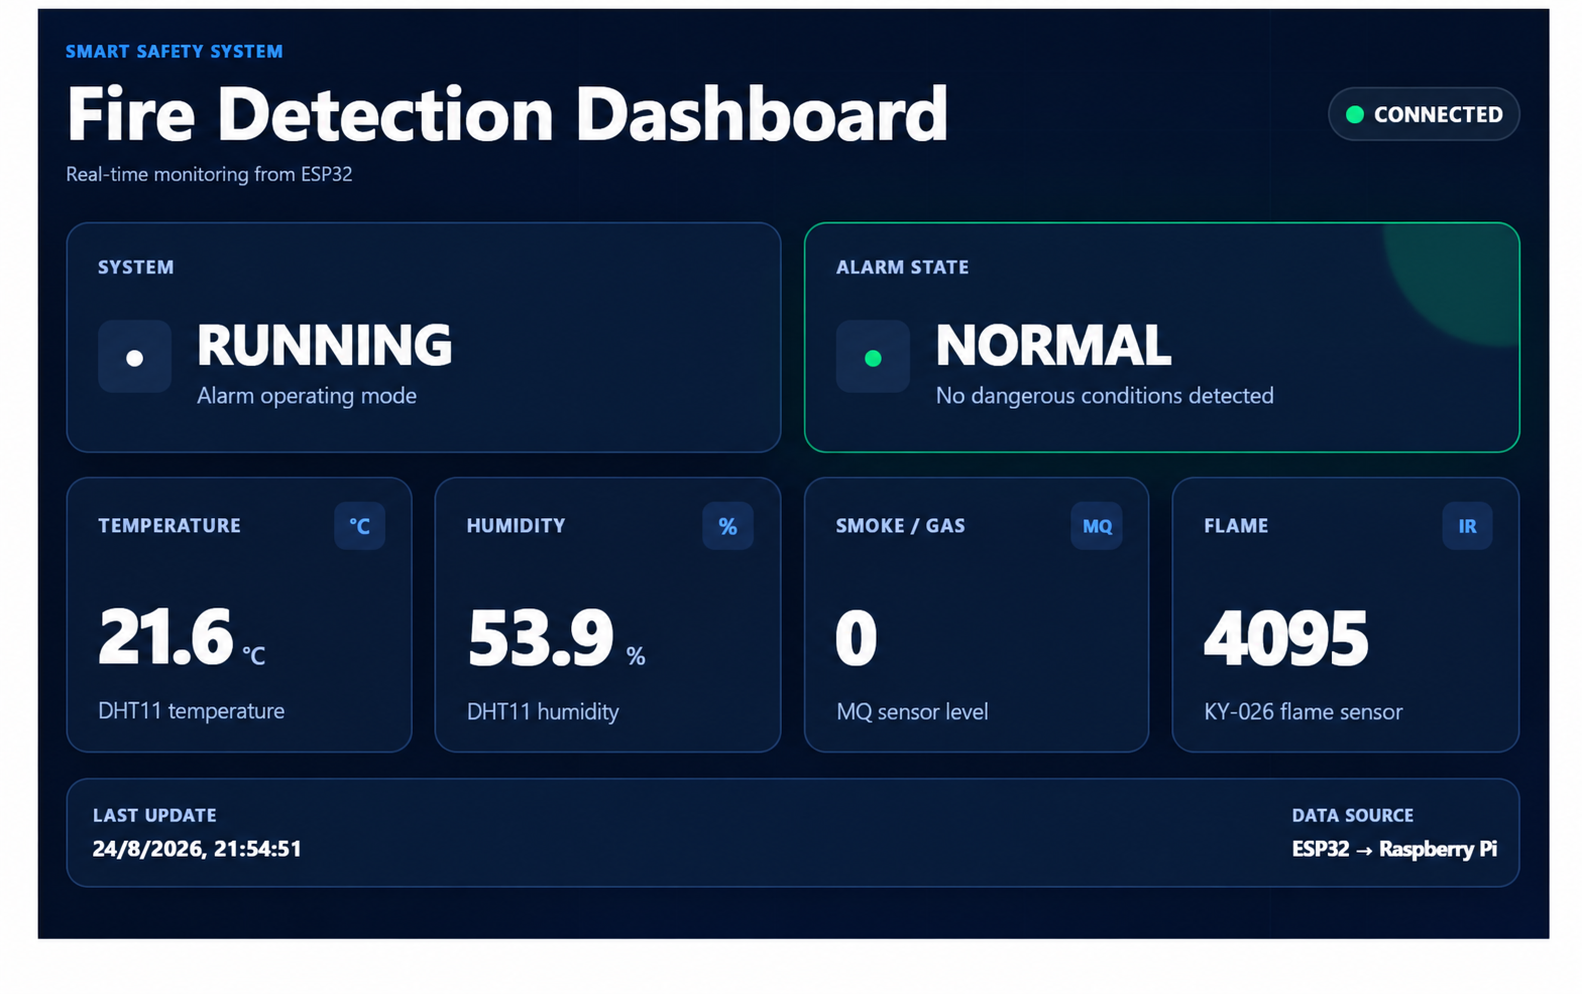
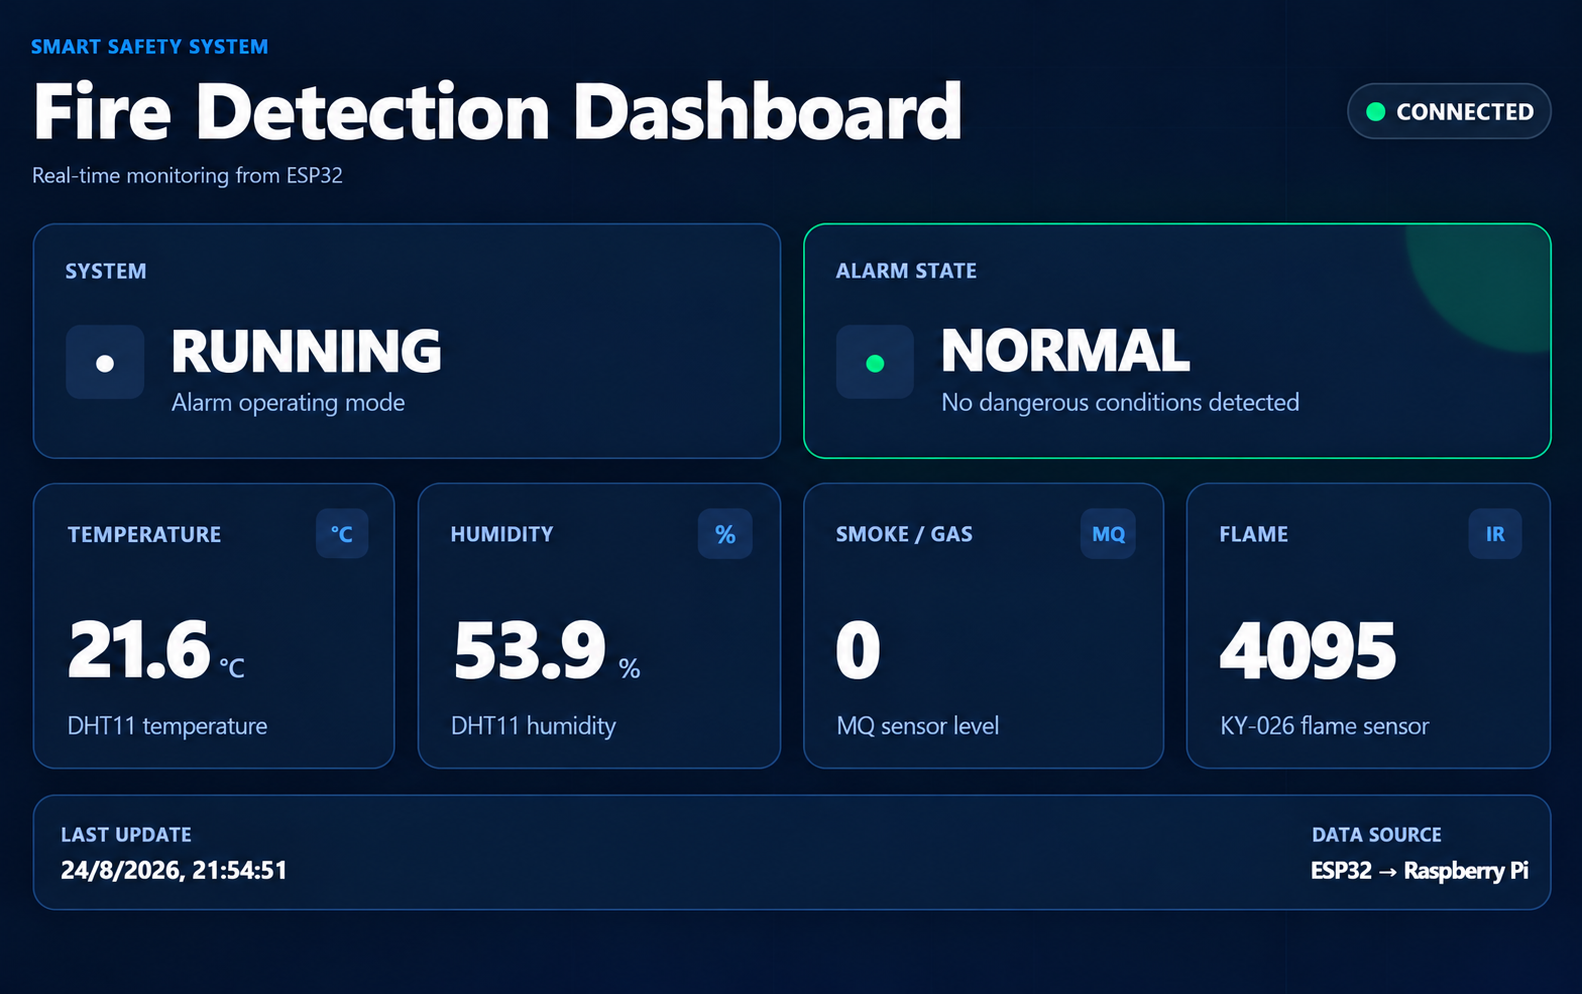
Remove dashboard image border and caption

diff --git a/README.md b/README.md
@@ -32,8 +32,6 @@ This project combines an autonomous ESP32 fire-detection prototype with a Raspbe
 
 [![Fire Detection Dashboard showing the system running, a normal alarm state and sensor readings](docs/screenshots/fire-detection-dashboard-enhanced.png)](docs/screenshots/fire-detection-dashboard-enhanced.png)
 
-*Dashboard snapshot. The displayed sensor readings are captured values, not live telemetry.*
-
 ## Physical Prototype
 
 <p align="center">
